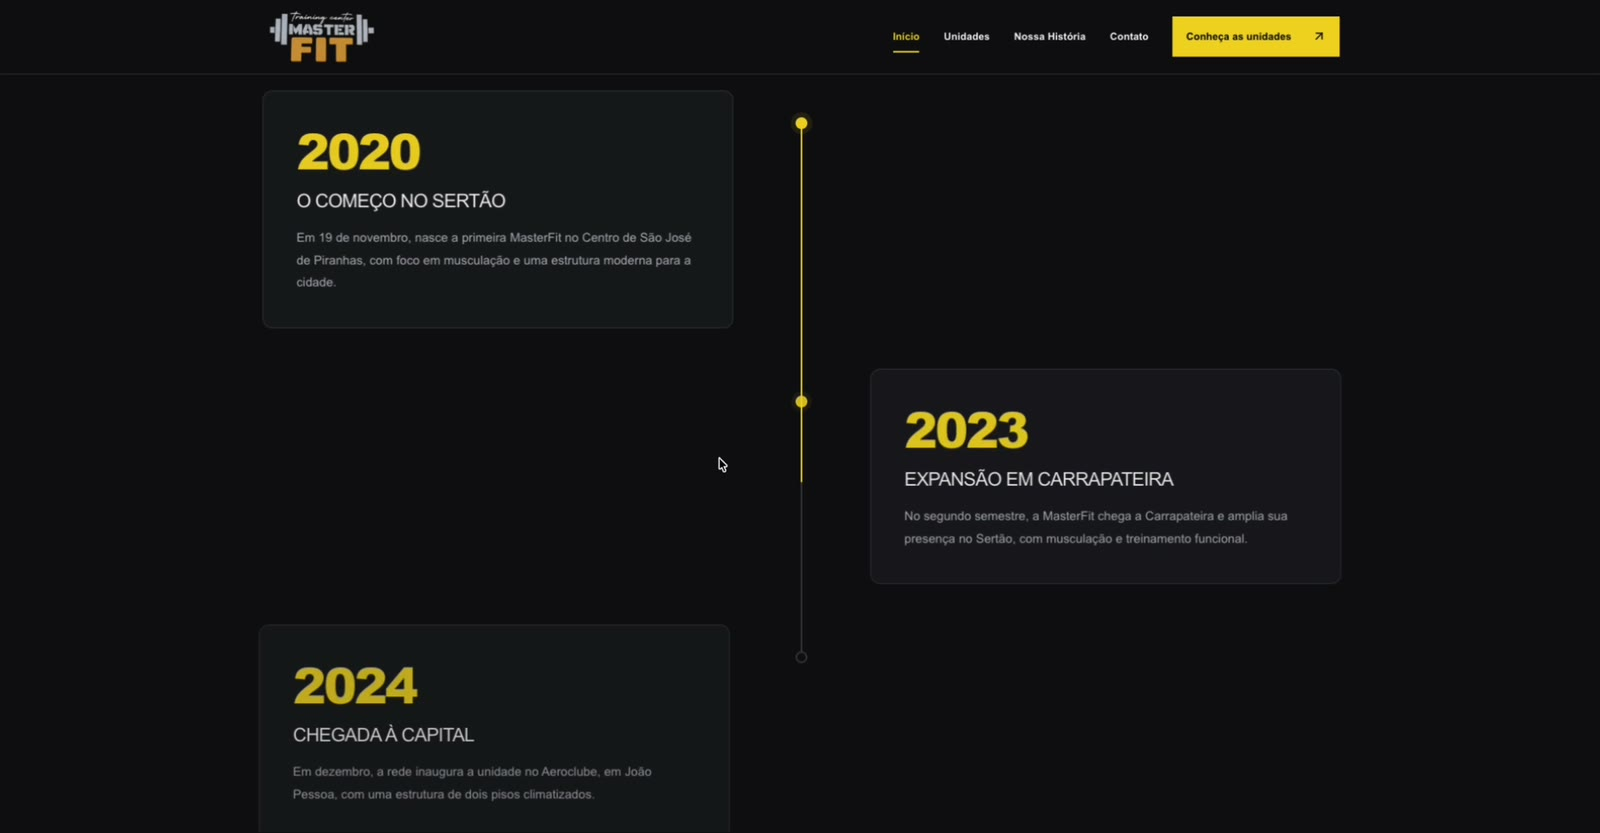
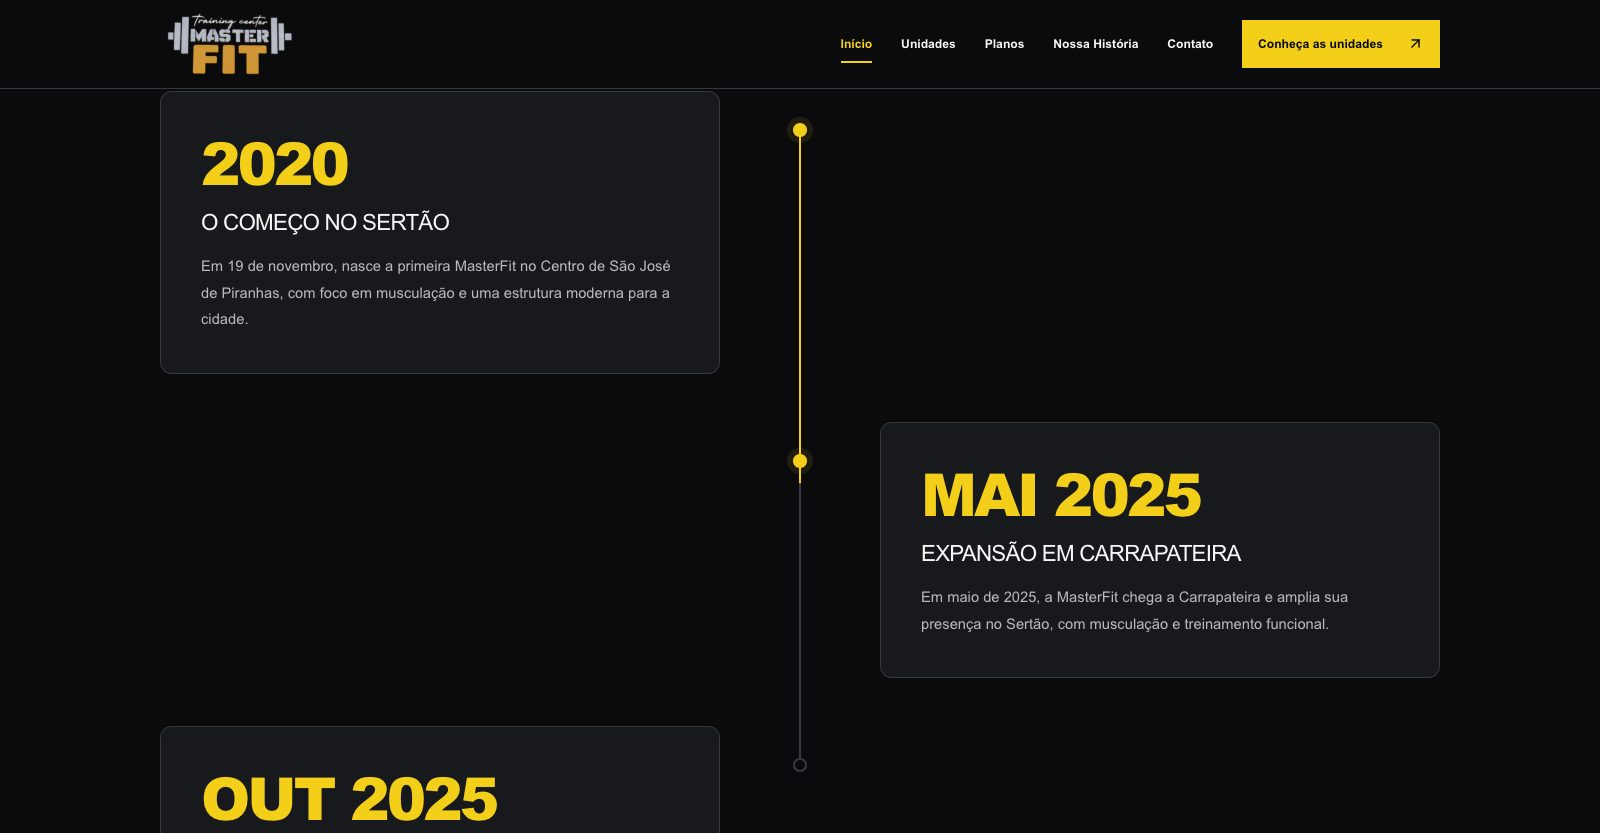
docs: refaz print da trajetória com as novas datas

diff --git a/README.md b/README.md
@@ -48,7 +48,7 @@ Três caminhos, um para cada unidade. Ao escolher um destino, um vídeo faz a ap
 
 Timeline vertical com os marcos da rede. A linha amarela acompanha a rolagem e retrocede ao subir a página.
 
-![Timeline com os marcos da rede](docs/readme/03-trajetoria.jpg)
+![Timeline com os marcos de 2020, maio de 2025 e outubro de 2025](docs/readme/03-trajetoria.jpg)
 
 ### Nossas unidades
 
@@ -217,7 +217,7 @@ O projeto já está configurado para a Vercel em `vercel.json`: build com Vite, 
 
 Verificações: `npm run lint`, `npm run build`, os seis testes das partículas e `audit/verify-static.mjs` passaram. Hashes SHA-1 confirmaram Hero, vídeo, partículas, Header, Footer, avaliações, dados das unidades, preços e tokens sem alteração; o HTML renderizado das três páginas de unidade ficou idêntico ao anterior (SHA-256). No navegador: esteira sem as marcas removidas, grupos de mesma largura, pausar/retomar e o modo de movimento reduzido (regras ativadas via CSSOM); `/planos` com três blocos, âncoras, 13 links de WhatsApp idênticos aos das páginas das unidades, nenhum `id` duplicado, um único `h1` e títulos sem saltos de nível; timeline 2020 → MAI 2025 → OUT 2025 com barra de progresso e marcos ativos corretos; menu mobile em 320 px com Esc e retorno de foco; sem overflow horizontal em 320, 390, 820 e 1280 px; console sem erros.
 
-Pendências: o print `docs/readme/03-trajetoria.jpg` ainda mostra as datas antigas e precisa ser refeito; o histórico em `docs/HISTORICO-DESENVOLVIMENTO.md` foi mantido como registro da época.
+O print `docs/readme/03-trajetoria.jpg` foi refeito com as novas datas (1600×833, mesmo enquadramento). O histórico em `docs/HISTORICO-DESENVOLVIMENTO.md` foi mantido como registro da época.
 
 ## Documentação
 
